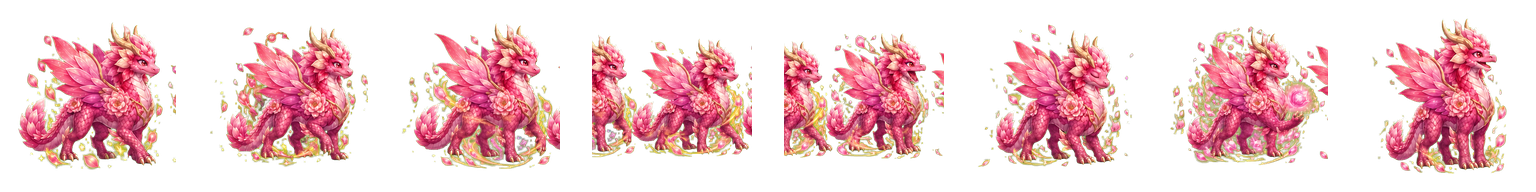
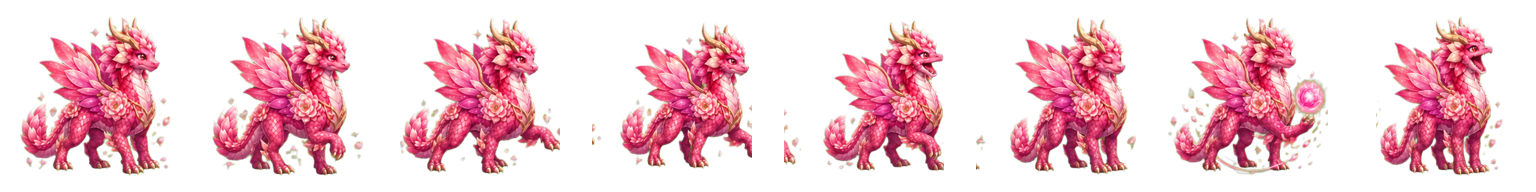
feat(dao rong): gắn 10 rồng mới (5 hồng + 5 colorful) — sprite, lai, trứng, thưởng
- Convert 10 sprite 8-khung (nền trong suốt) -> assets/dragons/*.webp:
  rose, lotus, peony, bubblegum, starlight, aurora, carnival, prism,
  kaleidoscope, rainbow (rainbow từ pal -> sprite thật).
- Thêm 9 species mới + cập nhật rainbow trong DR_SPECIES (có sheet);
  BỎ 5 loài chưa-sprite (mint/lemon/berry/coral/cloud) khỏi species &
  DR_SP_PRIORITY để không còn render nhầm rồng Lửa.
- Logic ghép (DR_BREED): fire+fire→Lễ Hội, water+water→Hoa Sen/Kẹo Bông,
  plant+plant→Hoa Hồng/Mẫu Đơn, ice+ice→Cực Quang, dark+dark→Cầu Vồng/
  Lăng Kính/Ánh Sao. Bỏ recipe trỏ loài đã xoá.
- Mua trứng: mở rộng pool Trứng HIẾM (thêm hồng/epic) + thêm Trứng HUYỀN
  THOẠI 120💎 (Vạn Hoa/Thần Long).
- Mở thưởng: tự có trong Vòng quay/Đấu/Sách rồng qua DR_SP_ORDER.
- sw ASSETS + cache v70; verify mọi sheet đều có file.

diff --git a/deploy/js/daorong.js b/deploy/js/daorong.js
@@ -119,12 +119,17 @@ function drModalFeature(title){
 const DR_SPECIES={
   peach:   {name:'Rồng Đào Hồng',   el:'plant',   els:['plant'],          rar:'rare',   gold:18, atk:48, hp:125, range:4, spd:6, evo:'assets/dragons/evolution/peach.webp', sheet:{url:'assets/dragons/peach.webp',frames:8,fps:7,act:1.35}, pal:{body:'#ff9ec4',bd:'#ffe0ee',wg:'#ffc2dc',st:'#e85b93',horn:'#d43f7a'}},
   candy:   {name:'Rồng Kẹo Ngọt',   el:'water',   els:['water'],          rar:'rare',   gold:20, atk:52, hp:120, range:4, spd:7, evo:'assets/dragons/evolution/candy.webp', sheet:{url:'assets/dragons/candy.webp',frames:8,fps:8,act:1.25}, pal:{body:'#c89bf0',bd:'#f4e6ff',wg:'#dcc2f5',st:'#8f5ecf',horn:'#7346b3'}},
-  mint:    {name:'Rồng Bạc Hà',     el:'plant',   els:['plant'],          rar:'rare',   gold:19, atk:46, hp:130, range:4, spd:6, pal:{body:'#9be7c4',bd:'#e4fbf0',wg:'#bff2dc',st:'#3fae86',horn:'#2f9670'}},
-  lemon:   {name:'Rồng Chanh',      el:'electric',els:['electric'],       rar:'rare',   gold:21, atk:58, hp:112, range:5, spd:8, pal:{body:'#ffe37a',bd:'#fff9d6',wg:'#ffee9e',st:'#d9a516',horn:'#b9860d'}},
-  berry:   {name:'Rồng Việt Quất',  el:'ice',     els:['ice'],            rar:'rare',   gold:20, atk:50, hp:122, range:4, spd:6, pal:{body:'#8aa0ff',bd:'#e6ebff',wg:'#b3c0ff',st:'#5566cc',horn:'#3f4ba3'}},
-  coral:   {name:'Rồng San Hô',     el:'fire',    els:['fire'],           rar:'rare',   gold:20, atk:54, hp:118, range:4, spd:7, pal:{body:'#ff9e7a',bd:'#ffe6dc',wg:'#ffc2ac',st:'#e8663f',horn:'#c24a25'}},
-  cloud:   {name:'Rồng Mây',        el:'water',   els:['water'],          rar:'rare',   gold:19, atk:48, hp:126, range:4, spd:6, pal:{body:'#cfe3ff',bd:'#f0f7ff',wg:'#e0eeff',st:'#8fa8c8',horn:'#6f88a8'}},
-  rainbow: {name:'Rồng Cầu Vồng',   el:'light',   els:['light'],          rar:'epic',   gold:40, atk:80, hp:150, range:5, spd:8, pal:{body:'#ff9ec4',bd:'#fff0f8',wg:'#c9b3ff',st:'#b0569f',horn:'#8f3f86'}},
+  // ===== Rồng CUTE/COLORFUL có sprite thật (8 khung) — thêm 2025-07 =====
+  rose:        {name:'Rồng Hoa Hồng',  el:'plant', els:['plant'], rar:'rare',      gold:20, atk:50, hp:126, range:4, spd:6, sheet:{url:'assets/dragons/rose.webp',frames:8,fps:7,act:1.3}},
+  lotus:       {name:'Rồng Hoa Sen',   el:'water', els:['water'], rar:'rare',      gold:20, atk:48, hp:130, range:4, spd:6, sheet:{url:'assets/dragons/lotus.webp',frames:8,fps:7,act:1.35}},
+  peony:       {name:'Rồng Mẫu Đơn',   el:'plant', els:['plant'], rar:'rare',      gold:21, atk:52, hp:124, range:4, spd:6, sheet:{url:'assets/dragons/peony.webp',frames:8,fps:7,act:1.3}},
+  bubblegum:   {name:'Rồng Kẹo Bông',  el:'water', els:['water'], rar:'rare',      gold:20, atk:46, hp:132, range:4, spd:7, sheet:{url:'assets/dragons/bubblegum.webp',frames:8,fps:8,act:1.25}},
+  starlight:   {name:'Rồng Ánh Sao',   el:'light', els:['light'], rar:'epic',      gold:40, atk:78, hp:142, range:5, spd:8, sheet:{url:'assets/dragons/starlight.webp',frames:8,fps:7,act:1.4}},
+  aurora:      {name:'Rồng Cực Quang', el:'ice',   els:['ice'],   rar:'epic',      gold:38, atk:74, hp:146, range:5, spd:7, sheet:{url:'assets/dragons/aurora.webp',frames:8,fps:7,act:1.35}},
+  carnival:    {name:'Rồng Lễ Hội',    el:'fire',  els:['fire'],  rar:'epic',      gold:38, atk:78, hp:138, range:4, spd:7, sheet:{url:'assets/dragons/carnival.webp',frames:8,fps:7,act:1.3}},
+  prism:       {name:'Rồng Lăng Kính', el:'light', els:['light'], rar:'epic',      gold:42, atk:82, hp:148, range:5, spd:8, sheet:{url:'assets/dragons/prism.webp',frames:8,fps:7,act:1.3}},
+  kaleidoscope:{name:'Rồng Vạn Hoa',   el:'light', els:['light'], rar:'legendary', gold:66, atk:106,hp:176, range:5, spd:8, sheet:{url:'assets/dragons/kaleidoscope.webp',frames:8,fps:7,act:1.45}},
+  rainbow:     {name:'Rồng Cầu Vồng',  el:'light', els:['light'], rar:'epic',      gold:40, atk:80, hp:150, range:5, spd:8, sheet:{url:'assets/dragons/rainbow.webp',frames:8,fps:7,act:1.4}},
   sakura:  {name:'Rồng Anh Đào',    el:'plant',   els:['plant'],          rar:'rare',   gold:19, atk:50, hp:124, range:4, spd:6, fx:'petal', evo:'assets/dragons/evolution/sakura.webp', sheet:{url:'assets/dragons/sakura.webp',frames:1,fps:1}, pal:{body:'#ff8fc7',bd:'#ffe3f1',wg:'#ffb3d9',st:'#e84f95',horn:'#c93a7a'}},
   fire:    {name:'Rồng Lửa',       el:'fire',    els:['fire'],           rar:'common', gold:10, atk:42, hp:100, range:3, spd:6, evo:'assets/dragons/evolution/fire.webp',       sheet:{url:'assets/dragons/fire.webp', frames:8, fps:7, act:1.25}},
   water:   {name:'Rồng Nước',      el:'water',   els:['water'],          rar:'common', gold:10, atk:38, hp:112, range:4, spd:5, evo:'assets/dragons/evolution/water.webp',      sheet:{url:'assets/dragons/water.webp', frames:8, fps:9, act:1.3}},
@@ -139,7 +144,7 @@ const DR_SPECIES={
   dark:    {name:'Hắc Long',       el:'dark',    els:['dark'],           rar:'epic',   gold:40, atk:86, hp:150, range:4, spd:7, evo:'assets/dragons/evolution/dark.webp',       sheet:{url:'assets/dragons/dark.webp', frames:8, fps:7, act:1.45}},
   light:   {name:'Thần Long',      el:'light',   els:['light'],          rar:'legendary',gold:70,atk:110,hp:180, range:5, spd:8, evo:'assets/dragons/evolution/light.webp',      sheet:{url:'assets/dragons/light.webp', frames:8, fps:7, act:1.6}},
 };
-const DR_SP_PRIORITY=['peach','sakura','candy','mint','lemon','berry','coral','cloud','rainbow','fire','water','plant','earth','electric','ice','lava','steam','swamp','storm','dark','light'];
+const DR_SP_PRIORITY=['peach','sakura','candy','rose','lotus','peony','bubblegum','starlight','aurora','carnival','prism','kaleidoscope','rainbow','fire','water','plant','earth','electric','ice','lava','steam','swamp','storm','dark','light'];
 // DR_SP_ORDER LUÔN gồm mọi loài trong DR_SPECIES: chỉ cần thêm rồng mới vào DR_SPECIES
 // là nó TỰ có trong Sách rồng + Vòng quay + đối thủ Đấu, không cần đụng danh sách này.
 const DR_SP_ORDER=(function(){ const o=DR_SP_PRIORITY.filter(sp=>DR_SPECIES[sp]);
@@ -164,9 +169,9 @@ function drEvolutionNext(lv){
 }
 /* Bảng lai: cặp nguyên tố (sắp xếp) -> loài có thể ra (ngẫu nhiên) */
 const DR_BREED={
-  'fire+fire':['fire','fire','lava','coral'],
-  'water+water':['water','water','steam','candy','cloud'],
-  'plant+plant':['plant','plant','swamp','peach','mint','sakura'],
+  'fire+fire':['fire','fire','lava','carnival'],
+  'water+water':['water','water','steam','candy','lotus','bubblegum'],
+  'plant+plant':['plant','plant','swamp','peach','rose','peony','sakura'],
   'earth+earth':['earth','earth','lava'],
   'earth+fire':['lava','fire','earth'],
   'fire+water':['steam','fire','water'],
@@ -175,9 +180,9 @@ const DR_BREED={
   'earth+electric':['electric','earth','storm'],   // key phải theo abc (earth<electric) — trước ghi 'electric+earth' nên KHÔNG bao giờ khớp
   'ice+plant':['ice','plant','swamp'],
   'dark+fire':['dark','lava','fire'],
-  'dark+dark':['dark','dark','light','rainbow'],
-  'electric+electric':['electric','electric','storm','lemon'],
-  'ice+ice':['ice','ice','storm','berry'],
+  'dark+dark':['dark','dark','light','rainbow','prism','starlight'],
+  'electric+electric':['electric','electric','storm'],
+  'ice+ice':['ice','ice','storm','aurora'],
   // --- công thức mới: lấp "vùng chết", cho lai tới MỌI hệ chỉ từ 3 rồng khởi đầu ---
   'fire+plant':['earth','plant','fire'],          // mở khoá ĐẤT
   'earth+plant':['electric','earth','plant'],     // mở khoá ĐIỆN
@@ -191,8 +196,14 @@ const DR_BREED={
 /* Khắc chế nguyên tố (đấu trường) */
 const DR_ADV={water:'fire', fire:'plant', plant:'water', earth:'electric', electric:'ice', ice:'plant', dark:'light', light:'dark'};
 
-const DR_SLOTS=[[30,32],[58,28],[44,47],[31,61],[66,56],[48,68],[73,40],[21,47],
-  [15,58],[85,52],[38,24],[62,70]];      // 8 ô gốc + 4 ô mở ra khi dọn chướng ngại
+// 12 ô rải ĐỀU khắp đảo theo 4 hàng so le (tránh dồn giữa gây chồng rồng).
+// x 15–83%, y 22–74% — hàng dưới render đè hàng trên (z theo y) tạo chiều sâu.
+const DR_SLOTS=[
+  [30,24],[50,22],[70,24],            // hàng sau (trên)
+  [15,42],[37,40],[60,42],[83,41],    // hàng giữa — rộng nhất
+  [25,58],[48,60],[71,58],            // hàng dưới-giữa
+  [38,74],[62,74]                     // hàng trước (dưới)
+];
 const DR_DECO=[['🌴',12,20,1.5],['🌸',82,42,1],['🍄',20,72,1],['🌷',75,73,1],['✨',52,17,.9],['🌿',88,60,1.1]];
 const DR_BASE_CAP=8;                      // số ô nuôi rồng ban đầu (giữ nguyên như bản cũ, không nerf save cũ)
 const DR_MAX=12;                          // trần tối đa sau khi mở rộng đảo
@@ -629,7 +640,10 @@ function drRenderDragons(){
     roam.appendChild(bob); wrap.appendChild(roam);
     drScheduleDragonAction(bob,d.sp);
     if(!drReduce){
-      const dist=42+Math.random()*30, dx=slot[0]>58?-dist:dist, dy=Math.random()*18-9;
+      // Rồng biên đi VÀO trong cho khỏi rớt mép; rồng giữa xen kẽ trái/phải theo chỉ số
+      // (KHÔNG cùng dồn về tâm như trước) + biên độ nhỏ lại để đỡ chồng lên nhau.
+      const dir=slot[0]<24?1:slot[0]>76?-1:(i%2?1:-1);
+      const dist=16+Math.random()*20, dx=dir*dist, dy=Math.random()*12-6;
       const dur=Math.max(6200,12400-(s.spd||5)*560)+Math.random()*2600;
       roam.animate([
         {transform:'translate(0,0)'},
@@ -1138,11 +1152,13 @@ function drClaimMail(i){
 }
 
 /* ---------- Shop ---------- */
-const DR_SHOP_RARE_POOL=['electric','ice','lava','steam','swamp','storm','dark'];   // trứng hiếm: chỉ loài đã có sprite
+const DR_SHOP_RARE_POOL=['electric','ice','lava','steam','swamp','storm','dark','rose','lotus','peony','bubblegum','aurora','carnival','prism','starlight','rainbow'];  // trứng hiếm: loài hiếm/epic đã có sprite
+const DR_SHOP_LEGEND_POOL=['kaleidoscope','light'];   // trứng huyền thoại
 function drShowShop(){
   const body=`<div class="dr-shop-grid">
     <div class="dr-shop-item"><div class="dr-shop-ic">${drIcon('egg')}</div><b>Trứng thường</b><small>Nở 1 rồng nguyên tố cơ bản</small><button class="dr-btn" id="drBuyEgg">250 🪙</button></div>
-    <div class="dr-shop-item"><div class="dr-shop-ic">${drIcon('star')}</div><b>Trứng HIẾM</b><small>Nở rồng hiếm/epic (Điện, Băng, Bão, Hắc Long…)</small><button class="dr-btn alt" id="drBuyEggRare">40 💎</button></div>
+    <div class="dr-shop-item"><div class="dr-shop-ic">${drIcon('star')}</div><b>Trứng HIẾM</b><small>Nở rồng hiếm/epic (Cực Quang, Lễ Hội, Hoa Sen, Cầu Vồng…)</small><button class="dr-btn alt" id="drBuyEggRare">40 💎</button></div>
+    <div class="dr-shop-item"><div class="dr-shop-ic">${drIcon('gift')}</div><b>Trứng HUYỀN THOẠI</b><small>Chắc chắn rồng huyền thoại (Vạn Hoa / Thần Long)</small><button class="dr-btn alt" id="drBuyEggLegend">120 💎</button></div>
     <div class="dr-shop-item"><div class="dr-shop-ic">${drIcon('food')}</div><b>Thức ăn ×20</b><small>Cho rồng lên cấp</small><button class="dr-btn" id="drBuyFood">100 🪙</button></div>
     <div class="dr-shop-item"><div class="dr-shop-ic">${drIcon('food')}</div><b>Thức ăn ×100</b><small>Gói lớn tiết kiệm</small><button class="dr-btn" id="drBuyFood100">400 🪙</button></div>
     <div class="dr-shop-item"><div class="dr-shop-ic">${drIcon('gem')}</div><b>Đổi 30 🍖</b><small>Mua thức ăn bằng kim cương</small><button class="dr-btn alt" id="drBuyFood2">3 💎</button></div>
@@ -1157,6 +1173,9 @@ function drShowShop(){
   $('drBuyEggRare').onclick=()=>{ if(full())return; if(drState.gems<40){toast('Thiếu 💎 (cần 40)');return;}
     drState.gems-=40; const sp=DR_SHOP_RARE_POOL[Math.floor(Math.random()*DR_SHOP_RARE_POOL.length)]; drState.dragons.push({sp,lv:1,fed:0,star:1});
     drAddXp(30); if(typeof confetti==='function') confetti(); drRenderHud(); drRenderDragons(); drSave(); toast('✨ Trứng hiếm nở: '+DR_SPECIES[sp].name+'!'); };
+  $('drBuyEggLegend').onclick=()=>{ if(full())return; if(drState.gems<120){toast('Thiếu 💎 (cần 120)');return;}
+    drState.gems-=120; const sp=DR_SHOP_LEGEND_POOL[Math.floor(Math.random()*DR_SHOP_LEGEND_POOL.length)]; drState.dragons.push({sp,lv:1,fed:0,star:1});
+    drAddXp(50); if(typeof confetti==='function') confetti(); drRenderHud(); drRenderDragons(); drSave(); toast('🌟 Trứng huyền thoại nở: '+DR_SPECIES[sp].name+'!'); };
   $('drBuyFood').onclick=()=>{ if(drState.gold<100){toast('Thiếu vàng');return;} drState.gold-=100; drState.food+=20; drRenderHud(); drBump('drFood'); drSave(); toast('+20 🍖'); };
   $('drBuyFood100').onclick=()=>{ if(drState.gold<400){toast('Thiếu vàng');return;} drState.gold-=400; drState.food+=100; drRenderHud(); drBump('drFood'); drSave(); toast('+100 🍖'); };
   $('drBuyFood2').onclick=()=>{ if(drState.gems<3){toast('Thiếu 💎');return;} drState.gems-=3; drState.food+=30; drRenderHud(); drBump('drFood'); drSave(); toast('+30 🍖'); };

diff --git a/deploy/sw.js b/deploy/sw.js
@@ -1,4 +1,4 @@
-const CACHE = 'tienlen-v68-shop-plus';
+const CACHE = 'tienlen-v70-new-dragons';
 const ASSETS = [
   './', './index.html', './styles.css', './manifest.webmanifest', './icon-192.png', './icon-512.png',
   './js/config.js', './js/engine.js', './js/state.js', './js/game.js', './js/ui.js', './js/daorong.js', './js/maubinh.js', './js/social.js',
@@ -10,6 +10,10 @@ const ASSETS = [
   './assets/dragons/lava.webp', './assets/dragons/steam.webp', './assets/dragons/swamp.webp',
   './assets/dragons/storm.webp', './assets/dragons/dark.webp', './assets/dragons/light.webp',
   './assets/dragons/peach.webp', './assets/dragons/candy.webp', './assets/dragons/sakura.webp',
+  './assets/dragons/rose.webp', './assets/dragons/lotus.webp', './assets/dragons/peony.webp',
+  './assets/dragons/bubblegum.webp', './assets/dragons/starlight.webp', './assets/dragons/aurora.webp',
+  './assets/dragons/carnival.webp', './assets/dragons/prism.webp', './assets/dragons/kaleidoscope.webp',
+  './assets/dragons/rainbow.webp',
   './assets/dragons/evolution/fire.webp', './assets/dragons/evolution/water.webp',
   './assets/dragons/evolution/plant.webp', './assets/dragons/evolution/earth.webp',
   './assets/dragons/evolution/electric.webp', './assets/dragons/evolution/ice.webp',